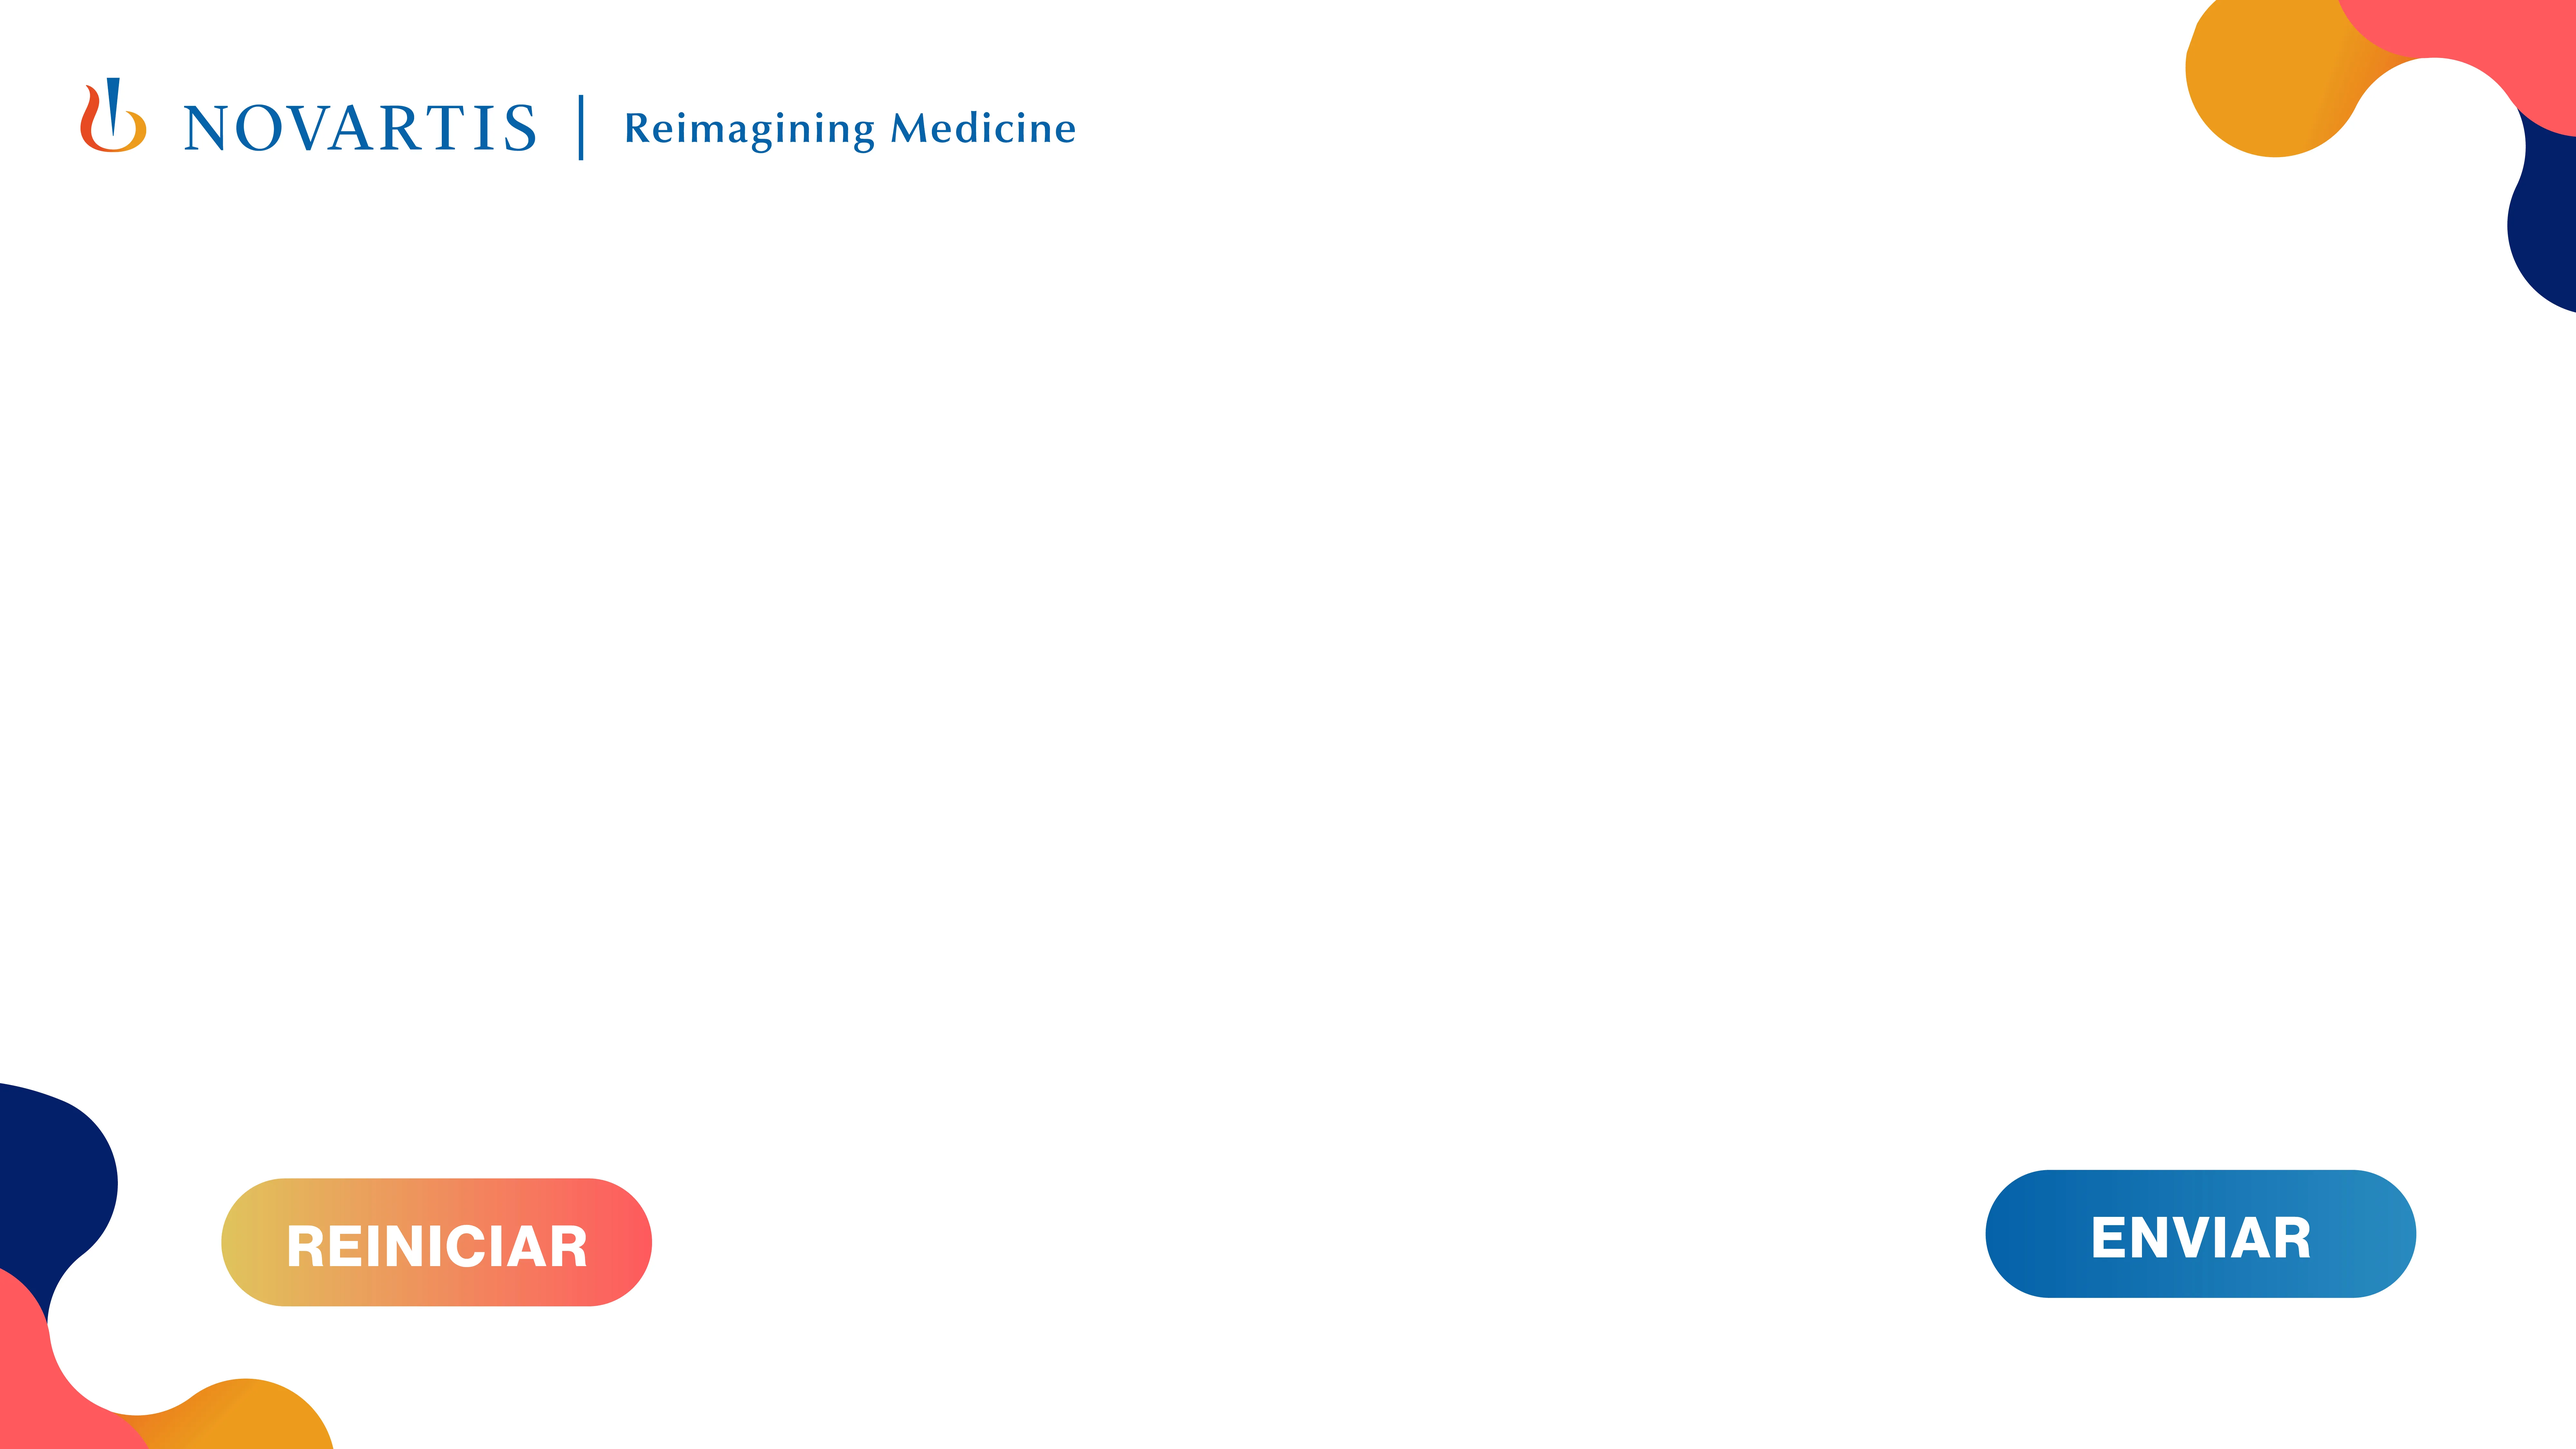
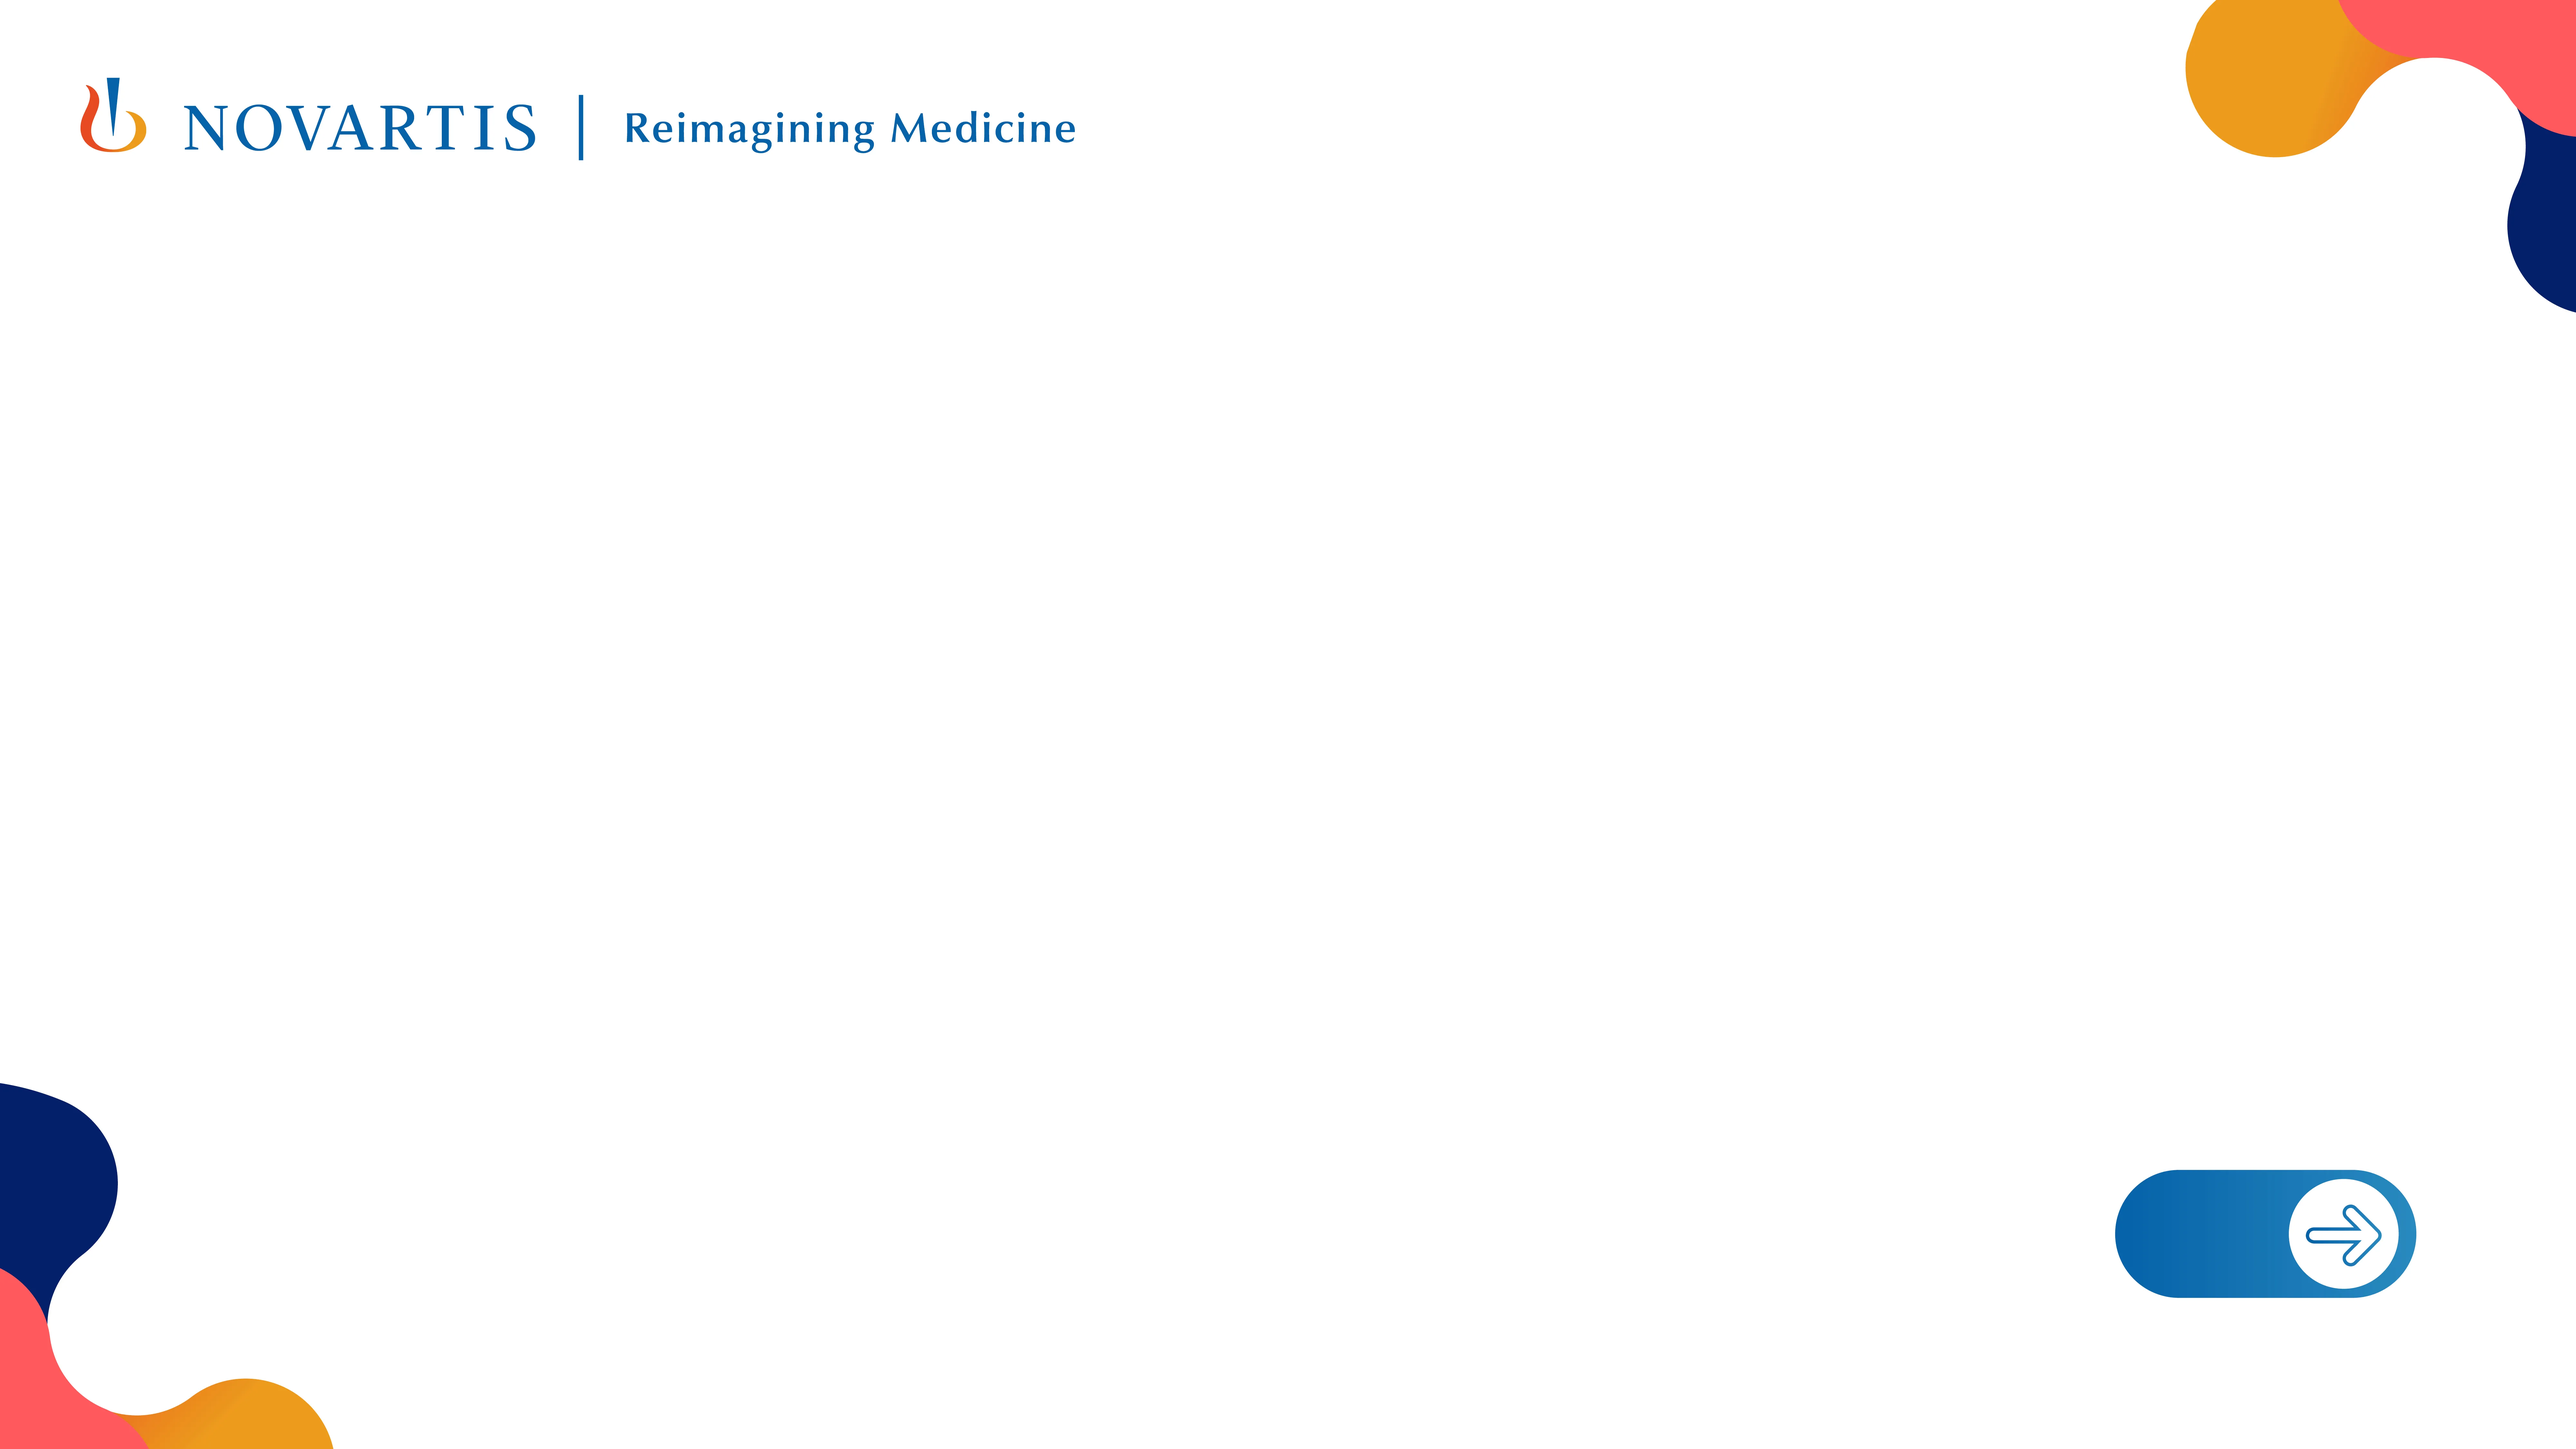
cambios logica boton

Changed region(s): [[0.0625, 0.8089, 0.25, 0.9022], [0.75, 0.8089, 0.9375, 0.9022]]

diff --git a/index117.html b/index117.html
@@ -17,7 +17,6 @@
 				alt="Portada"
 				class="cover-image" />
 
-			<div class="reiniciar"></div>
 			<div class="enviar"></div>
 
 			<!-- Chulo alerta bien -->
